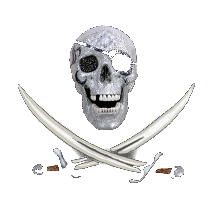
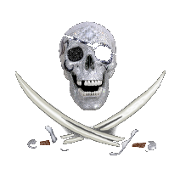
fixed some width issues of the menu

diff --git a/css/main.css b/css/main.css
@@ -22,6 +22,7 @@
 {
 	background-image: url(../images/diamondskullnoback.png);
 	background-repeat: no-repeat;
+	background-position: 2%;
 	
 }
 
@@ -29,12 +30,11 @@
 #logoandmenu #banner
 {
     	width: 40%;
-	font-size: 250%;
+	font-size: 200%;
 	padding-bottom: 3%;
-	line-height: 90px
+	line-height: 220%;
 	
 }
-
 
 #logoandmenu #banner 
 {
@@ -48,9 +48,9 @@
     background: -webkit-gradient(linear, left top , left bottom, from(#DBD328), to(#C7C5A7));
   -webkit-background-clip: text;
   -webkit-text-fill-color: transparent;
-	-webkit-text-stroke-width: 3px;
+	-webkit-text-stroke-width: 1px;
    -webkit-text-stroke-color: #1A4352;
-	padding-top: 4%;
+	padding-top: 1%;
 	padding-left: 7%;
 
 }
@@ -59,7 +59,7 @@
 {
 	width: 57%;
 	float: right;
-	margin-top: 11%;
+	margin-top: 7%;
 	font-size: 200%;
 	
 }
@@ -83,18 +83,18 @@
 #home
 {
 	width: 90%;
-	margin-right: 5%;
-	margin-left: 5%;
+	margin-right: 3%;
+	margin-left: 3%;
 	
-    color: #1A4352;
+    	color: #1A4352;
 	border: solid 3px; 
-border-radius: 10% 10%;
+	border-radius: 10% 10%;
 }
 
 
 #home #slidinggallery
 {
-	margin:3%;
+	margin:4%;
 	border: solid 2px;
     height: 550%;
     width: 210%;
